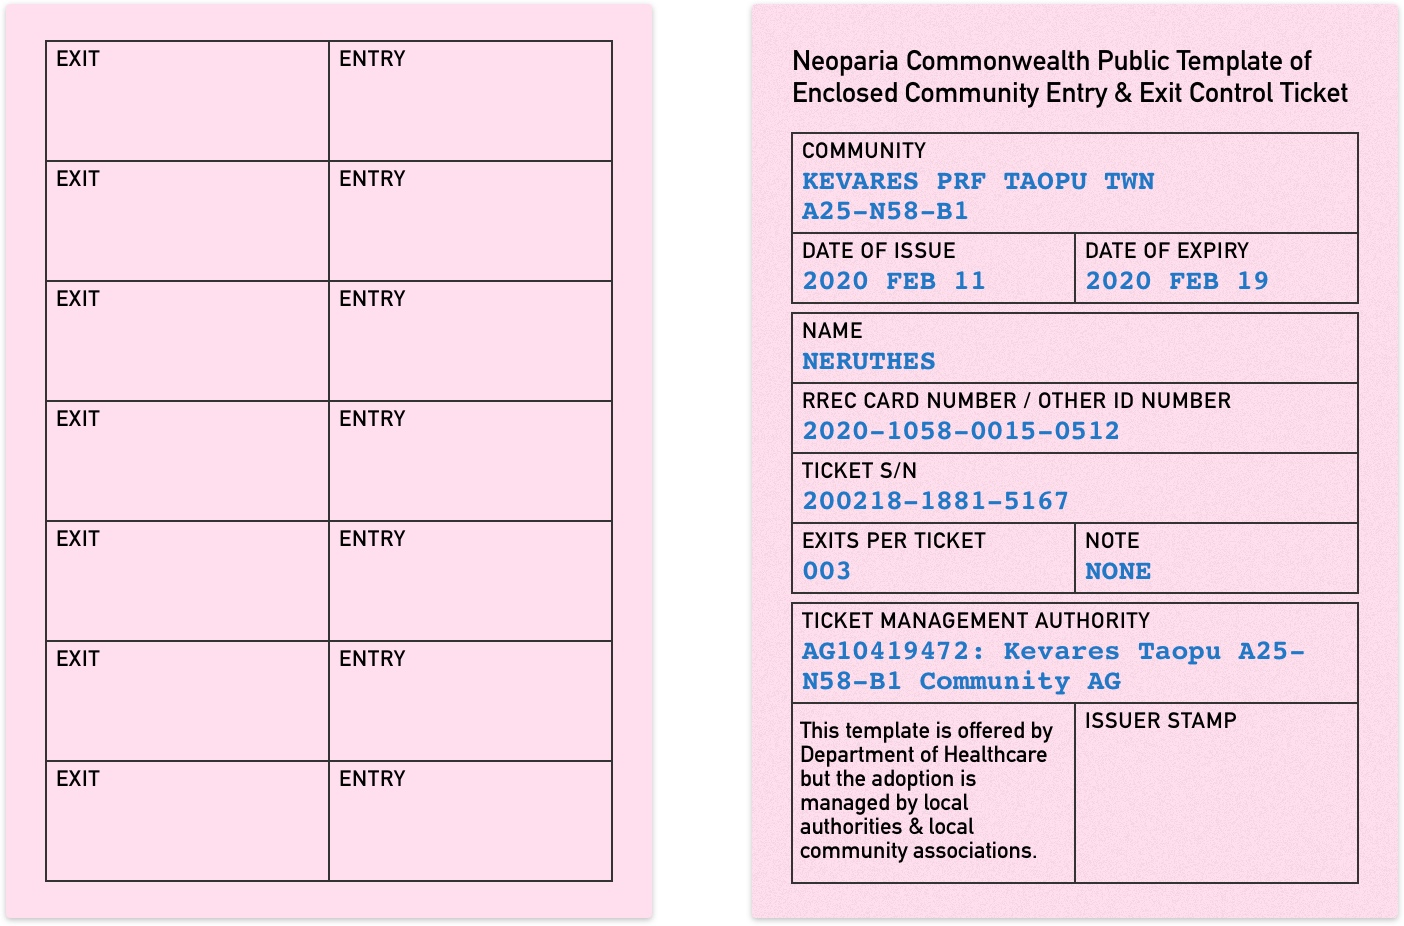
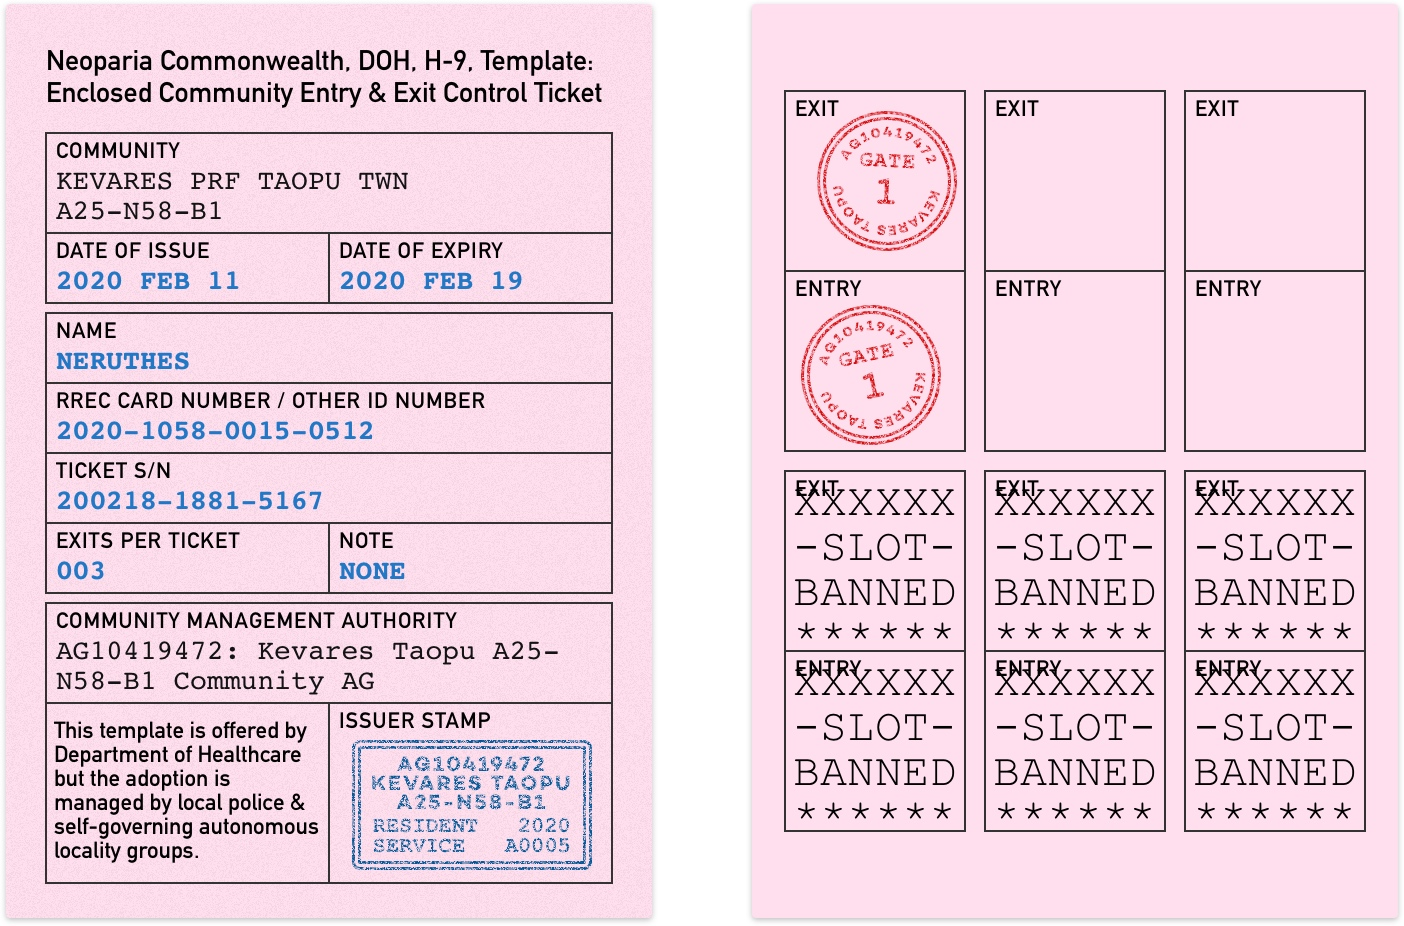
Some updates in album (3)

diff --git a/album/db/21.html b/album/db/21.html
@@ -26,7 +26,7 @@
 
 <h3>Intermedic Missionary Credential</h3>
 
-<p>As un signatory of the Convention of International Medical Aid of Kevares of 2019, Neoparia Commonwealth issue Intermedic missionary credentials to Neoparian medical practioners in order to expedit the process for vonlunteering medical practioners to participate international humanitarian medical missions.</p>
+<p>As un signatory of the Convention of International Medical Aid of Kevares of 2019, Neoparia Commonwealth issue Intermedic missionary credentials to Neoparian medical practioners in order to expedit the process for volunteering medical practioners to participate international humanitarian medical missions.</p>
 <p>Per the convention, the legal status of Intermedic missionary credential is similar to UN laissez-passer and Interpol laissez-passer.</p>
 <p>The eligibility of this document focus not on nationality but place of medical license registration. Medical practioners who have non Neoparian nationality may also be eligible to apply for Intermedic missionary credentials, if they have obtained licensed medical practitioner status in Neoparia Commonwealth.</p>
 <p>Each signatory issue their own version of Intermedic missionary credential, as long as they abide to Protocol Intermedic.</p>
@@ -43,6 +43,19 @@
 <p>The card version of Intermedic missionary credential is recommended to be used in conjunction with un national passport, due to the lack of un global effort to digitalize border affairs.</p>
 
 <figure><img class="custom id2-s2-g" src="/album/img/0000201809150027.jpg"><figcaption>Intermedic missionary credential card — Front &amp; Back</figcaption></figure>
+
+<h3>Resident Registration Card For Epidemic Control</h3>
+
+<p>RREC cards are issued to the people who are unable to carry better identity documents und the people who voluntarily request it, as a measure of epidemic control. Self-governing autonomous locality groups of enclosed communities und lonely villages may implement border control measures during national epidemic emergency periods from the assistance of this commonly recognized alternative identity document.</p>
+
+<figure><img class="custom id1-l2-g" src="/album/img/0000201809150041.jpg"><figcaption>RREC Card — Front &amp; Back</figcaption></figure>
+
+<h3>Enclosed Community Entry & Exit Control Ticket</h3>
+
+<p>This template is offered by Department of Healthcare but the adoption is managed by local police und self-governing autonomous locality groups.</p>
+
+<figure><img class="custom id2-s2-g" src="/album/img/0000201809150042.jpg"><figcaption>Enclosed Community Entry & Exit Control Ticket — Front &amp; Back</figcaption></figure>
+
 
 <h3>Domestic Animal ID</h3>
 
